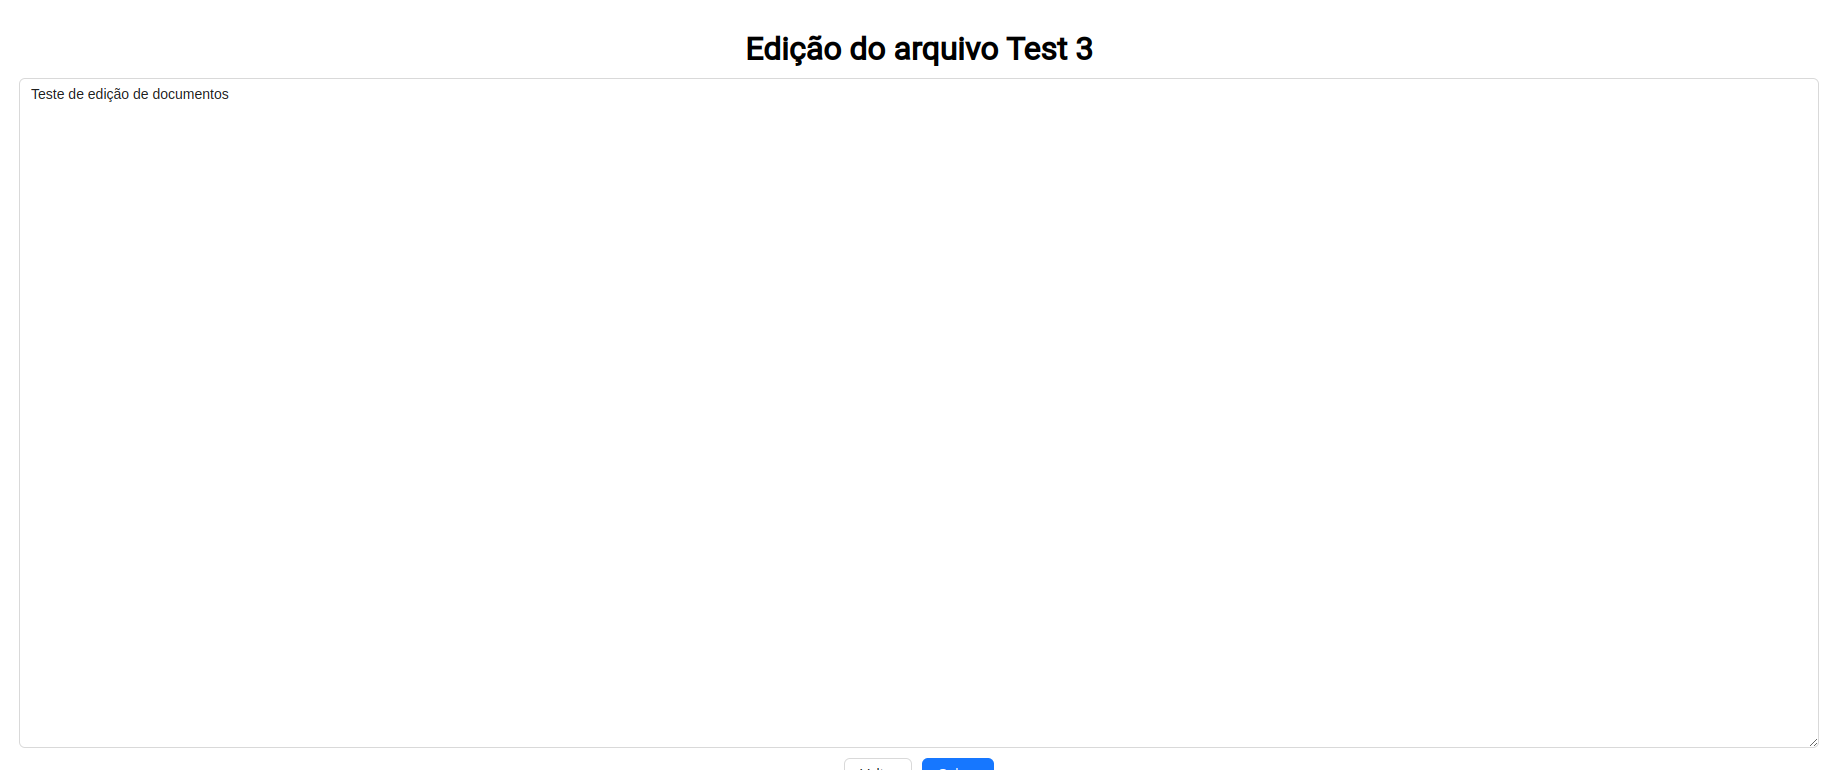
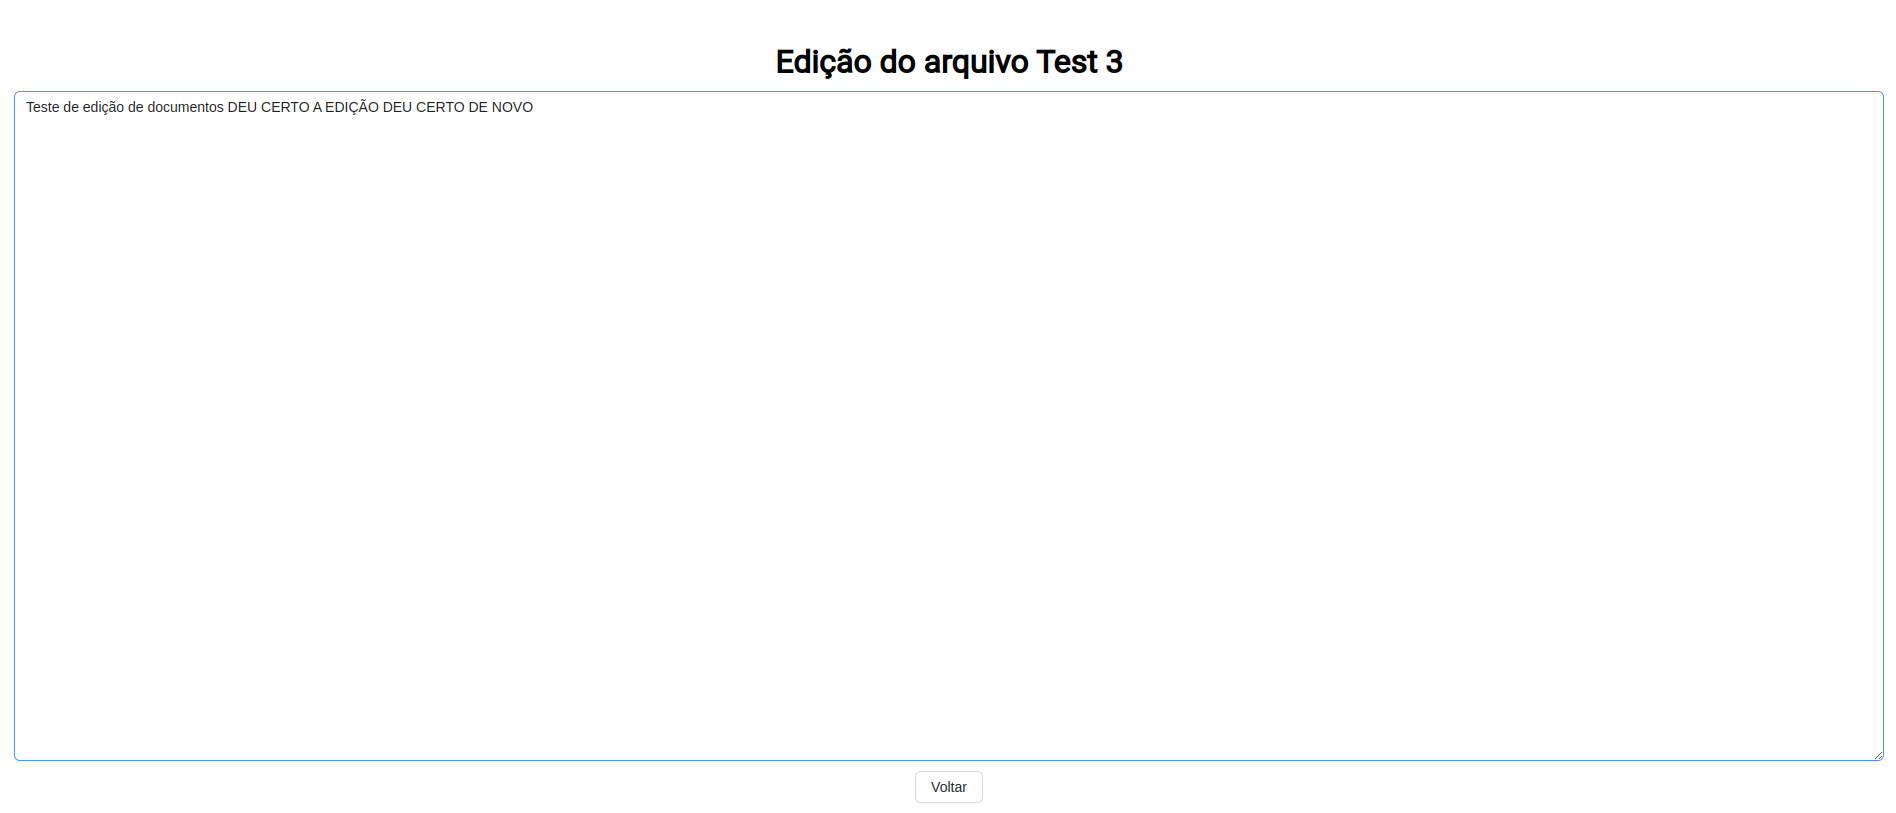
feat: implentation keyup

Changed region(s): [[0.0, 0.0312, 0.9945, 0.1558], [0.4662, 0.9351, 0.5594, 1.0], [0.9635, 0.9039, 0.9945, 0.9351]]

diff --git a/src/pages/file/edit/[id].tsx b/src/pages/file/edit/[id].tsx
@@ -91,6 +91,17 @@ export default function FileEdit() {
             id="content"
             rows={30}
             value={message}
+            onKeyUp={async () => {
+              try {
+                await api.put(`/files/${id}`, {
+                  ...data,
+                  content: message,
+                });
+                // router.push("/");
+              } catch (e) {
+                console.log(e);
+              }
+            }}
             onChange={(event) => {
               setMessage(event.target.value);
               socket?.emit("sendMsg", event.target.value, String(id));
@@ -102,10 +113,6 @@ export default function FileEdit() {
               <Link key="back" href="/">
                 <Button>Voltar</Button>
               </Link>
-
-              <Button type="primary" onClick={handleSubmit}>
-                Salvar
-              </Button>
             </ButtonContainer>
           )}
         </>

diff --git a/src/components/table/index.tsx b/src/components/table/index.tsx
@@ -22,9 +22,14 @@ export function Table() {
         title="Action"
         key="action"
         render={(_: any, record: DataType) => (
-          <Link key={record._id} href={`/file/edit/${record._id}`}>
-            Visualizar
-          </Link>
+          <Space size="middle">
+            <Link key={record._id} href={`/file/edit/${record._id}`}>
+              Editar
+            </Link>
+            <Link key={record._id} href={`/file/edit/${record._id}?view=true`}>
+              Visualizar
+            </Link>
+          </Space>
         )}
       />
     </TableComponent>

diff --git a/README.md b/README.md
@@ -1,10 +1,10 @@
-## <h1>Shopping list documentation</h1>
+## <h1>Google docs simulation</h1>
 
 <h3>Initial setting</h3>
 
 <h5>1. Env</h5>
 
-<p>It is necessary to make a copy of the .env.local.exemplo file, rename the file to .env and fill it with your data.</p>
+<p>It is necessary to make a copy of the .env.local.exemplo file, rename the file to .env.local and fill it with your data.</p>
 
 <h6>File</h6>
 
@@ -33,13 +33,9 @@
 
 Editing the file: just follow the steps listed above.
 
-Real-time viewing: paste this address into your browser or send the link to the person who needs to see it. In both situations, you need to replace the id with the file id.
+Real-time viewing: Copy the address shown in the view button in the file list and send it to the person you want to see.
 
-Note: It is possible to get the file id at the address of the editing screen, right after "edit/".
-
-![Alt text](./docs/images/editAddress.png)
-
-Viewing address: http://localhost:3000/file/edit/<strong>fileId</strong>?view=true
+![Alt text](./docs/images/buttons.png)
 
 <h5>5. Project images</h5>
 
